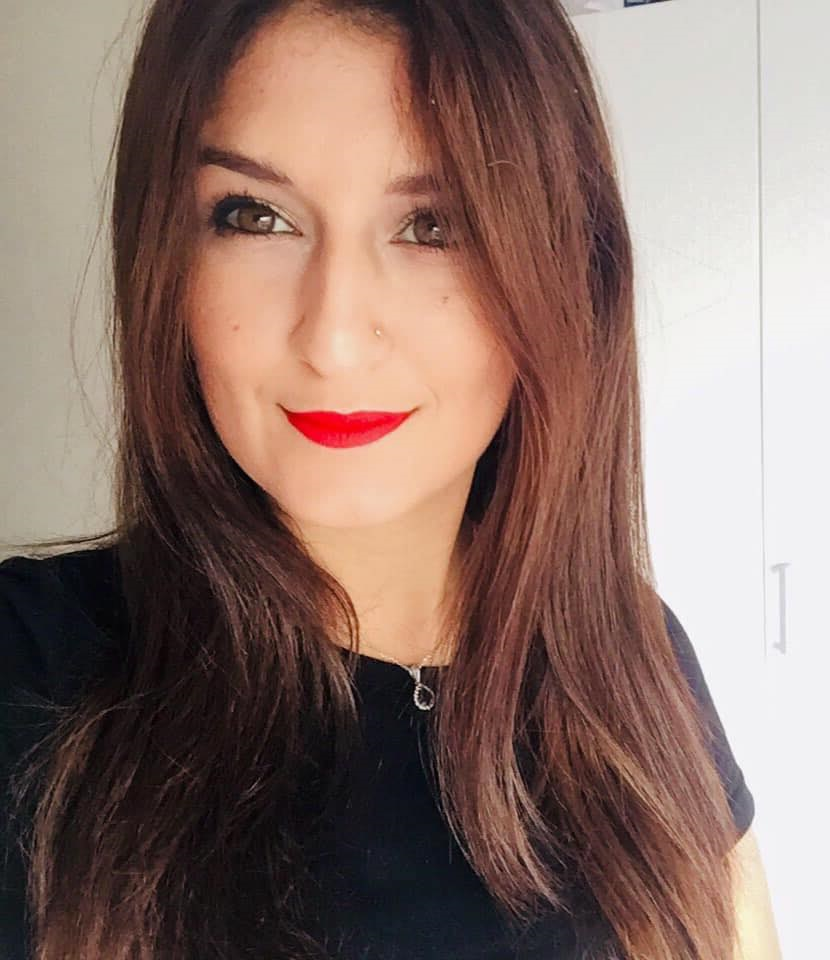
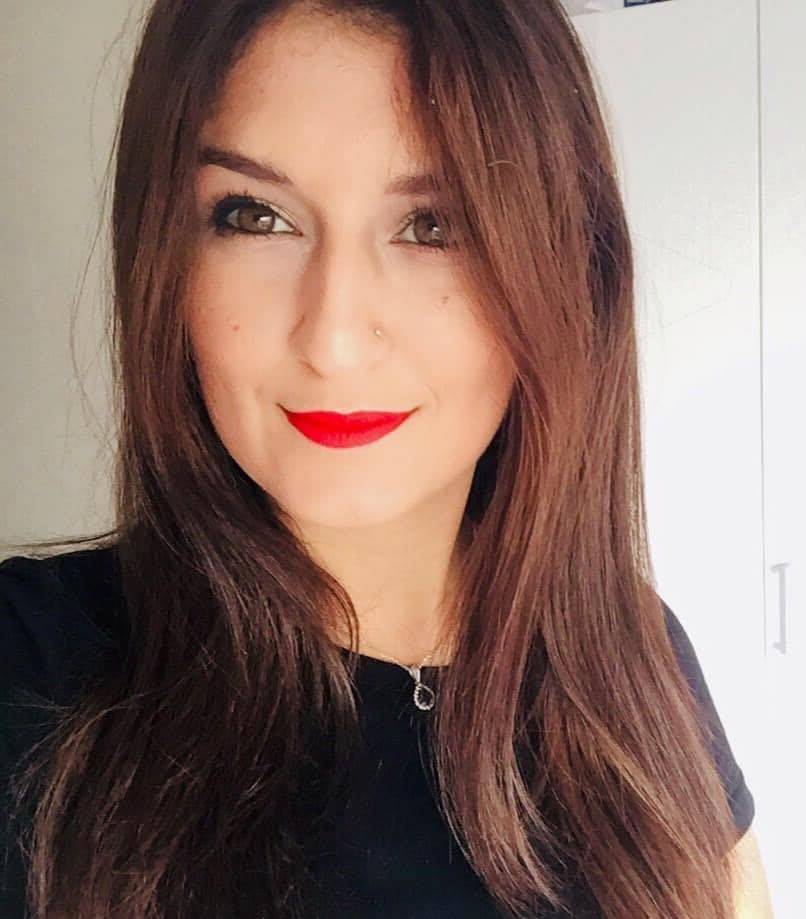
houda added to the list!!

diff --git a/index.html b/index.html
@@ -387,12 +387,12 @@
                               <div class="block-speaker">
                                     <div class="block-img overlay soft">
                                           <div class="background-img">
-                                                <img src="img/Med.png" alt="">
+                                                <img src="img/speakers/houda.jpg" alt="">
                                           </div>
                                           <div class="block-info-2">
                                                 <p>
-                                                      <strong>Mohamed Ben Abdallah</strong>
-                                                      <span>Entrepreneur </span>
+                                                      <strong>Houda Sghaier Benhoula</strong>
+                                                      <span>Psychotherapist </span>
                                                 </p>
 
                                           </div>
